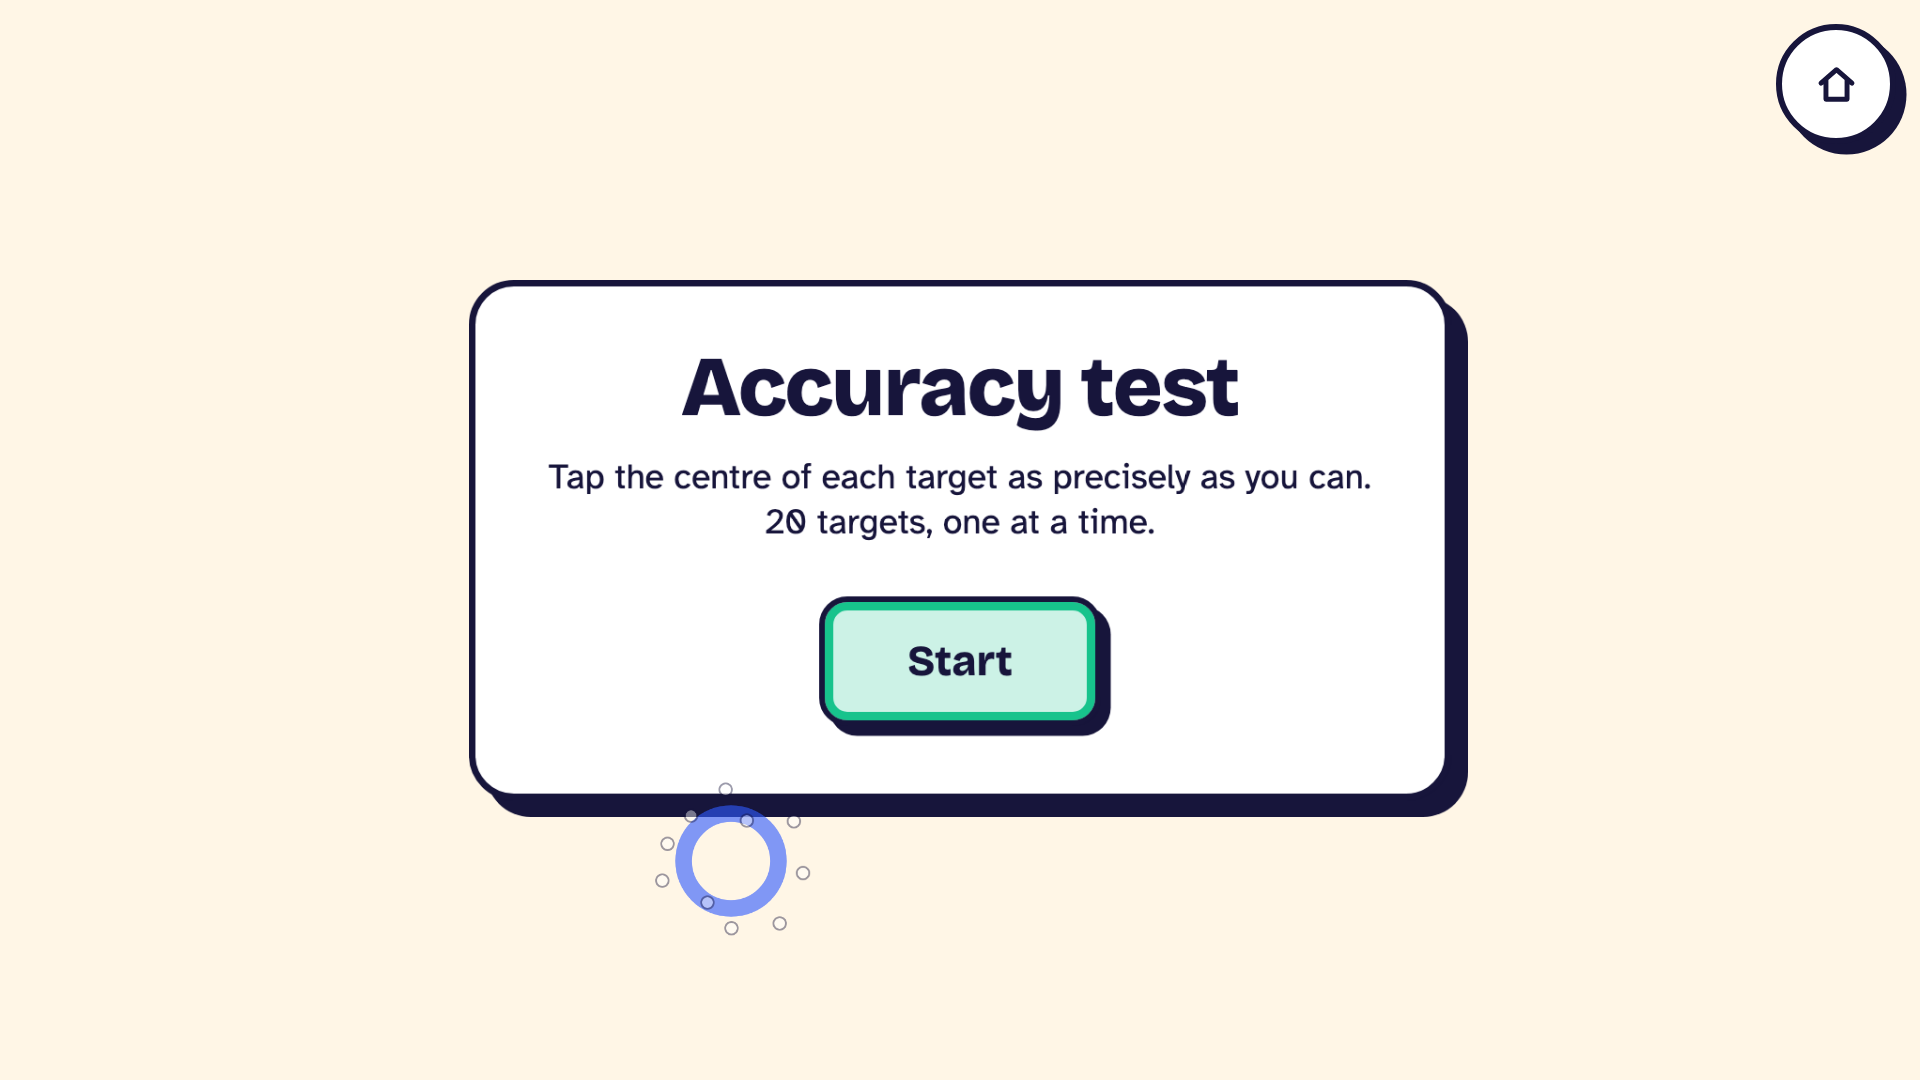
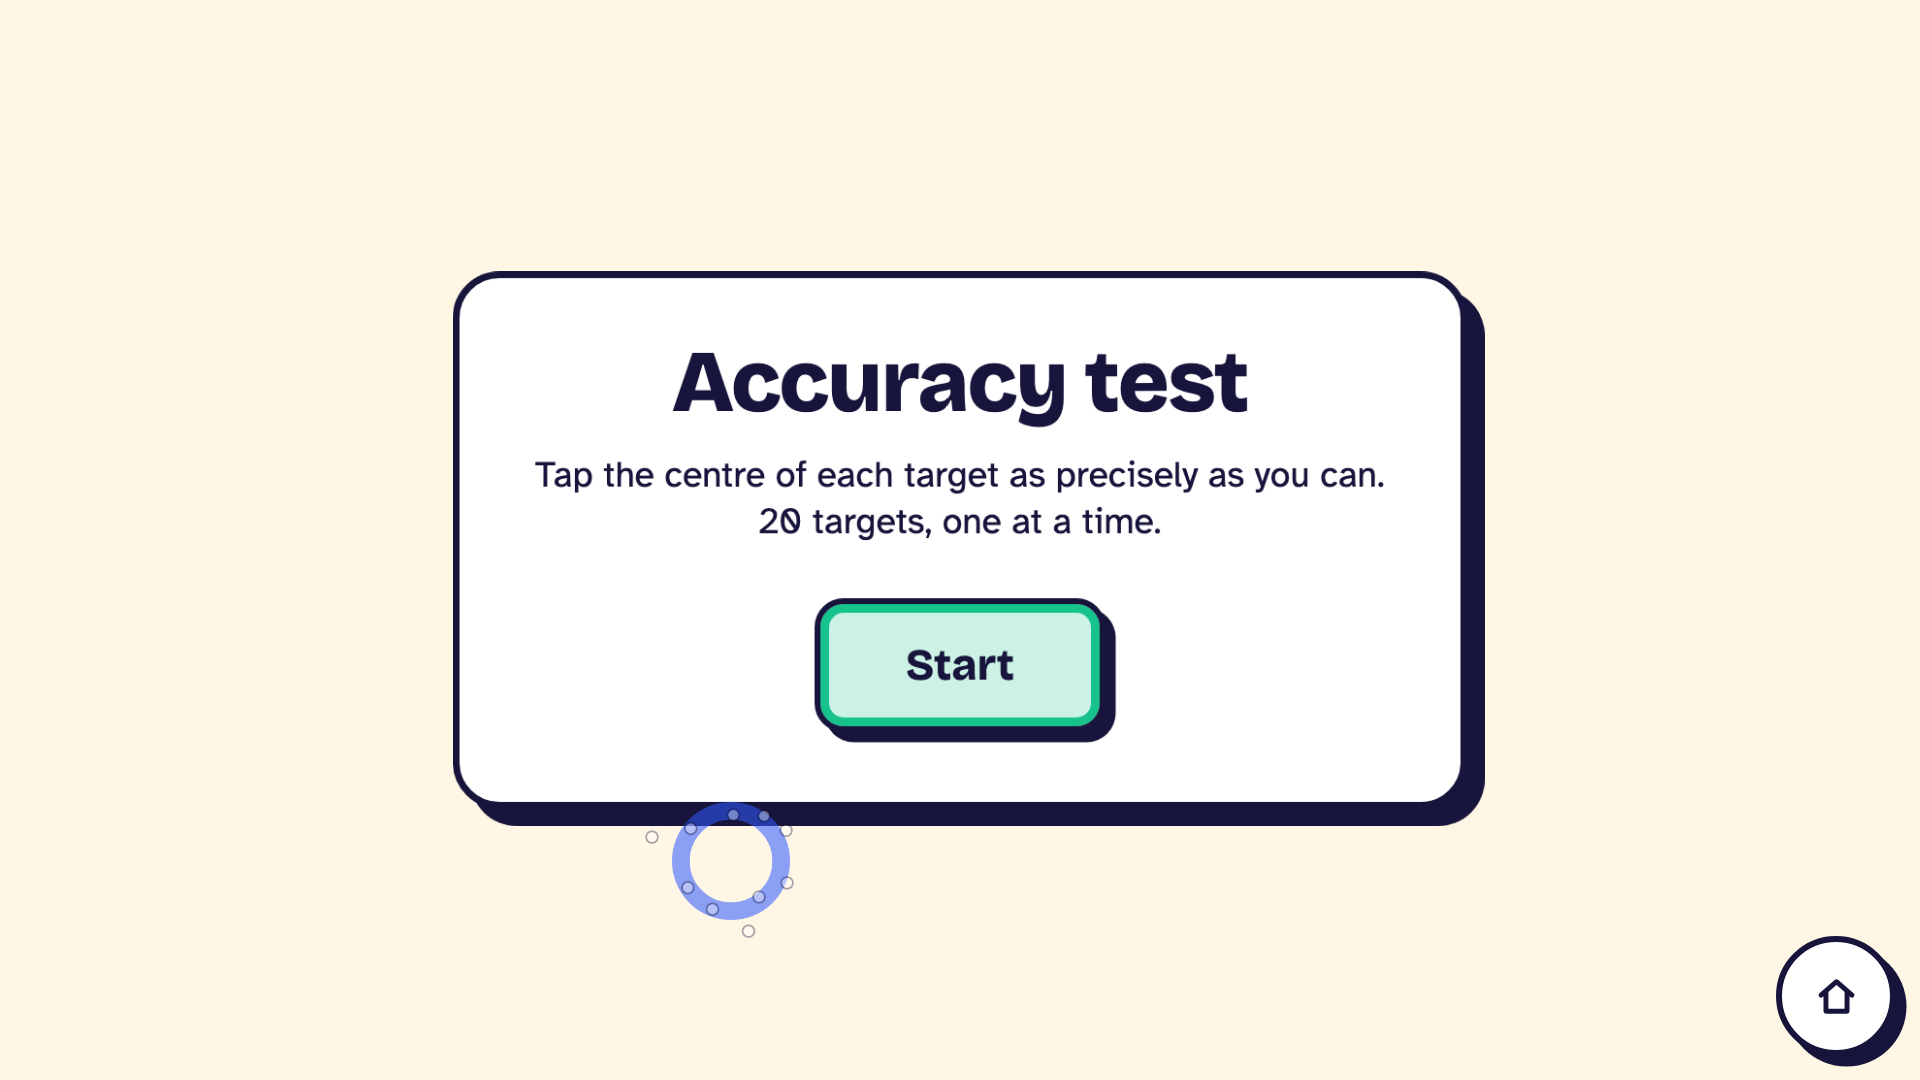
Prediction reuses work between screenshots that differ only by a moving cursor (was 6 fps with a hand in view); home button and Slides bar at the bottom; finer silhouette every frame

diff --git a/web/src/style.css b/web/src/style.css
@@ -56,7 +56,7 @@ button { font: inherit; color: inherit; cursor: pointer; }
 
 #home {
   position: absolute;
-  top: 0.8rem;
+  bottom: 0.8rem; /* low, within easy reach: the top of a projected picture is hard to reach */
   right: 0.8rem;
   z-index: 50;
   width: 4rem;
@@ -374,9 +374,9 @@ body.desktop #back {
 /* ---------- slides ---------- */
 
 .slides { position: absolute; inset: 0; }
-.slides-bar { position: absolute; left: 1rem; right: 5.8rem; top: 0.8rem; height: 4rem; display: flex; align-items: center; gap: 1rem; }
-.slides-name { max-width: 30rem; overflow: hidden; text-overflow: ellipsis; }
-.slides-page { position: absolute; left: 0; right: 0; top: 5.6rem; bottom: 0.6rem; display: grid; place-items: center; }
+.slides-bar { position: absolute; left: 1rem; right: 5.8rem; bottom: 0.8rem; z-index: 5; height: 4rem; display: flex; align-items: center; gap: 1rem; }
+.slides-name { max-width: 18rem; overflow: hidden; text-overflow: ellipsis; }
+.slides-page { position: absolute; left: 0; right: 0; top: 0.6rem; bottom: 5.6rem; display: grid; place-items: center; }
 .slides-page canvas { grid-area: 1 / 1; display: block; }
 .slides-page .pdf { background: #fff; border: var(--line) solid var(--ink); box-sizing: content-box; }
 .edge {
@@ -392,17 +392,17 @@ body.desktop #back {
 .edge.prev { left: 0.5rem; border-radius: 1rem; }
 .edge.next { right: 0.5rem; border-radius: 1rem; }
 .edge svg { width: 70%; fill: none; stroke: var(--ink); stroke-width: 9; stroke-linecap: round; stroke-linejoin: round; }
-.slides-num { position: absolute; bottom: 1.2rem; left: 50%; translate: -50% 0; }
+.slides-num { position: absolute; bottom: 1.2rem; right: 6.4rem; }
 .drop-hint { display: none; position: absolute; inset: 1rem; border: 0.35rem dashed var(--cobalt); border-radius: 2rem; background: rgba(255, 246, 230, 0.85); place-items: center; font: 800 2.4rem var(--display); }
 .dragging .drop-hint { display: grid; }
 
 /* ---------- quiz ---------- */
 
-.quiz { position: absolute; inset: 0; display: grid; grid-template-rows: auto 1fr; gap: 1.2rem; padding: 1rem 1.4rem 1.4rem; }
-.quiz-head { position: relative; min-height: 10rem; padding-right: 5.4rem; }
+.quiz { position: absolute; inset: 0; display: grid; grid-template-rows: auto 1fr; gap: 1.2rem; padding: 1rem 5.8rem 1.4rem 1.4rem; } /* the right margin keeps the answers clear of the home button */
+.quiz-head { position: relative; min-height: 10rem; }
 .quiz-q { margin-top: 0.8rem; font-size: 2.4rem; font-weight: 800; max-width: 48rem; }
 .quiz-why { margin: 0.6rem 0 0; font-size: 1.25rem; min-height: 1.6rem; max-width: 46rem; }
-.quiz-next { position: absolute; right: 5.6rem; bottom: 0; }
+.quiz-next { position: absolute; right: 0; bottom: 0; }
 .quiz-answers { display: grid; grid-template-columns: 1fr 1fr; grid-template-rows: 1fr 1fr; gap: 1.2rem; }
 .answer {
   display: flex;

diff --git a/web/src/apps/index.ts b/web/src/apps/index.ts
@@ -52,7 +52,7 @@ export const launcher: App = {
             )
             .join('')}
         </nav>
-        <footer>Point at a tile, then hold still or pinch to press it. To come back, point at the house button in the top-right corner for one second.</footer>
+        <footer>Point at a tile and hold still to press it. To come back, point at the house button at the bottom right for one second.</footer>
       </div>`
     root.querySelectorAll<HTMLElement>('[data-go]').forEach((b) => b.addEventListener('click', () => (location.hash = b.dataset.go!)))
 

diff --git a/web/src/apps/catch.ts b/web/src/apps/catch.ts
@@ -39,7 +39,7 @@ export const catchGame: App = {
     })
     canvas.addEventListener('pointerleave', () => (mouse = null))
 
-    // Silhouette mask: a small grid (e.g. 64x36) of 0/255 covering the content box.
+    // Silhouette mask: a small grid (e.g. 128x72) of 0/255 covering the content box.
     let mask: { w: number; h: number; cells: Uint8Array; at: number } | null = null
     const maskCanvas = document.createElement('canvas')
     send({ t: 'cmd', name: 'subscribe_mask', value: true })

diff --git a/visiontouch/predict.py b/visiontouch/predict.py
@@ -74,7 +74,7 @@ class Predictor:
         self._screen_size = screen_size
         self.set_area(np.eye(3))
         self.colour_map = None  # 20 polynomial terms x 3 camera channels, from calibration
-        self._cache = {}
+        self._cache, self._warps = {}, {}
 
     def set_area(self, content_to_screen):
         """Restrict detection to the content box (the whole screen for an
@@ -108,26 +108,47 @@ class Predictor:
         if sum(len(x) for x in xs) < 500:
             raise ValueError("the camera did not see the colour patterns")
         self.colour_map = _robust_fit(np.concatenate(xs), np.concatenate(ys), pull=CALIBRATION_PULL)
-        self._cache = {}
+        self._cache, self._warps = {}, {}
+
+    def _warped(self, screen_small):
+        """The working view of one screen picture, kept for the pictures of the last second or so."""
+        key = id(screen_small)
+        if key not in self._warps:
+            while len(self._warps) >= 40:
+                del self._warps[next(iter(self._warps))]
+            self._warps[key] = (screen_small, self.warp_screen(screen_small))  # holding the picture keeps its id unique
+        return self._warps[key][1]
+
+    def _slack(self, terms):
+        """How much each pixel would change if the projector colours changed
+        strength: banding hits saturated colours hardest, so they get more slack."""
+        return BAND_SLACK * sum(np.abs(terms @ (EXPONENTS[:, k:k + 1] * self.colour_map)) for k in range(3))
 
     def _terms(self, screen_small):
         """For one screen picture: its warped view, the polynomial terms of
         every pixel, the flat areas and the banding slack. Kept for the last
-        few pictures, because the screen is usually static between frames."""
+        few pictures, because the screen is usually static between frames.
+        A picture that differs only a little from the one before it (a moving
+        cursor) reuses that one's work for all pixels that stayed the same."""
         key = id(screen_small)
         if key not in self._cache:
-            warped = self.warp_screen(screen_small)
-            terms = _features(warped.reshape(-1, 3))
+            warped = self._warped(screen_small)
+            last = next(reversed(self._cache.values()), None)
+            changed = None if last is None else cv2.absdiff(warped, last[1]).any(2)
+            if changed is not None and changed.mean() < 0.2:
+                terms, slack, pixels = last[2].copy(), last[4].copy(), changed.ravel()
+                terms[pixels] = _features(warped[changed])
+                slack[changed] = self._slack(terms[pixels])
+            else:
+                terms = _features(warped.reshape(-1, 3))
+                slack = self._slack(terms).reshape(warped.shape)
             # Flat areas: only these are used for fitting, because at edges a
             # one-pixel misalignment looks like a big colour error.
             kernel = np.ones((5, 5), np.uint8)
             flat = cv2.subtract(cv2.dilate(warped, kernel), cv2.erode(warped, kernel)).max(2) < 24
-            # How much each pixel would change if the projector colours changed
-            # strength: banding hits saturated colours hardest, so they get more slack.
-            slack = BAND_SLACK * sum(np.abs(terms @ (EXPONENTS[:, k:k + 1] * self.colour_map)) for k in range(3)).reshape(warped.shape)
             while len(self._cache) >= 6:
                 del self._cache[next(iter(self._cache))]
-            self._cache[key] = (screen_small, warped, terms, flat, slack)  # holding the picture keeps its id unique
+            self._cache[key] = (screen_small, warped, terms, flat, slack)
         return self._cache[key][1:]
 
     def _adapt(self, terms, observed, usable, step=4):
@@ -188,12 +209,13 @@ class Predictor:
         observed = self.crop_camera(frame)
         warped, terms, flat, band_slack = self._terms(screen_small)
         usable = self.inside & flat if skip is None else self.inside & flat & ~skip
-        moving = []  # per other picture: its terms and where it differs from this one
+        moving = []  # per other picture: its terms where it differs from this one, and which pixels those are
         for other in others:
-            other_warped, other_terms = self._terms(other)[:2]
-            differs = cv2.absdiff(warped, other_warped).max(2) > 12
-            if differs.any():
-                moving.append((other_terms, differs))
+            other_warped = self._warped(other)
+            differs = cv2.inRange(cv2.absdiff(warped, other_warped), (0, 0, 0), (12, 12, 12)) == 0
+            pixels = np.flatnonzero(differs)
+            if len(pixels):
+                moving.append((_features(other_warped.reshape(-1, 3)[pixels]), pixels))
                 usable = usable & ~differs
         colour_map = self._adapt(terms, observed, usable)
         predicted = (terms @ colour_map).reshape(observed.shape)
@@ -217,11 +239,10 @@ class Predictor:
         lowest, highest = predicted, predicted
         if moving:
             lowest, highest = predicted.copy(), predicted.copy()
-            for other_terms, differs in moving:
-                rows = differs.ravel()
-                other = np.clip(predicted[differs] + (other_terms[rows] - terms[rows]) @ colour_map, 0, 255)
-                lowest[differs] = np.minimum(lowest[differs], other)
-                highest[differs] = np.maximum(highest[differs], other)
+            low, high = lowest.reshape(-1, 3), highest.reshape(-1, 3)  # views: one row per pixel
+            for other_terms, pixels in moving:
+                other = np.clip(predicted.reshape(-1, 3)[pixels] + (other_terms - terms[pixels]) @ colour_map, 0, 255)
+                low[pixels], high[pixels] = np.minimum(low[pixels], other), np.maximum(high[pixels], other)
         # Tolerance for misalignment and camera sharpening: compare against the
         # local min..max of that range, widened by a quarter of its width.
         kernel = np.ones((TOLERANCE, TOLERANCE), np.uint8)

diff --git a/visiontouch/engine.py b/visiontouch/engine.py
@@ -25,7 +25,7 @@ from .screen import Screen
 from .track import Tracker
 
 STORE = Path(os.environ.get("VISIONTOUCH_HOME", Path.home() / ".visiontouch"))  # calibration and logs
-MASK_GRID = (64, 36)
+MASK_GRID = (128, 72)
 STRIP = (420, 110)  # size of the stage window in desktop mode
 
 
@@ -270,7 +270,7 @@ class Engine:
         if self.mode == "desktop":
             self._drive_mouse(pointers)
         self._count += 1
-        if self.mask_wanted and self._count % 2 == 0:
+        if self.mask_wanted:
             to_grid = np.diag([MASK_GRID[0] / self.screen.size[0], MASK_GRID[1] / self.screen.size[1], 1.0]) @ np.linalg.inv(self._content()) @ np.linalg.inv(p.screen_to_work)
             grid = cv2.warpPerspective(mask.astype(np.uint8) * 255, to_grid, MASK_GRID, flags=cv2.INTER_AREA)
             self.server.send({"t": "mask", "w": MASK_GRID[0], "h": MASK_GRID[1], "b64": base64.b64encode(np.where(grid > 60, 255, 0).astype(np.uint8).tobytes()).decode()})

diff --git a/docs/protocol.md b/docs/protocol.md
@@ -17,7 +17,7 @@ Pointer positions are normalised to the stage **content box**: `x, y ∈ [0, 1]`
 | --- | --- |
 | `{"t":"pointers","p":[{"id":1,"x":0.42,"y":0.31,"down":false,"pose":"point"}]}` | Sent every camera frame (about 30/s). One entry per tracked hand; an empty list means no hands. A hand appears only after 3 detections in a row. `down` is the press state: a pinch, a short dwell tap, or, in `hold` dwell mode, a press that lasts until the next hold. `pose` is `point`, `pinch`, `palm` or `fist`. |
 | `{"t":"gesture","name":"swipe_left"}` | One-shot gesture: `swipe_left`, `swipe_right`. |
-| `{"t":"mask","w":64,"h":36,"b64":"..."}` | Silhouette of everything in front of the screen, row-major, one byte per cell (0 or 255), base64. The grid covers the content box, like pointer coordinates. Sent about 15/s after `subscribe_mask`. |
+| `{"t":"mask","w":128,"h":72,"b64":"..."}` | Silhouette of everything in front of the screen, row-major, one byte per cell (0 or 255), base64. The grid covers the content box, like pointer coordinates. Sent every camera frame after `subscribe_mask`. |
 | `{"t":"pattern","id":7,"url":"/pattern/7.png"}` | Show this image stretched to the full window, unwarped, on top of everything. `url: null` removes it. Used for calibration. |
 | `{"t":"warp","m":[9 numbers]}` | Row-major 3×3 homography mapping content-box pixels to window pixels (keystone correction). `m: null` means identity. |
 | `{"t":"state","calibrated":true,"camera":"MacBook","fps":29.8,"latency_ms":110,"mode":"apps","keystone":true,"sensitivity":1.0,"dwell":"tap","message":""}` | Engine status, sent on change and once a second. |

diff --git a/README.md b/README.md
@@ -62,7 +62,7 @@ Put the phone on a stand: it must not move after calibration.
 | Pipeline | Watch each processing step live. |
 | Settings | Calibrate, keystone, apps or desktop mode, detection sensitivity, camera. |
 
-**Desktop mode** (in Settings) moves the computer's real mouse instead, so you can use any program. The window shrinks to a small strip with a "back to apps" button that stays on top. To go home from any app, point at the home button in the top-right corner for one second. A hand does not need to press it; a mouse must keep pressing.
+**Desktop mode** (in Settings) moves the computer's real mouse instead, so you can use any program. The window shrinks to a small strip with a "back to apps" button that stays on top. To go home from any app, point at the home button in the bottom-right corner for one second. A hand does not need to press it; a mouse must keep pressing.
 
 ## Gestures
 
